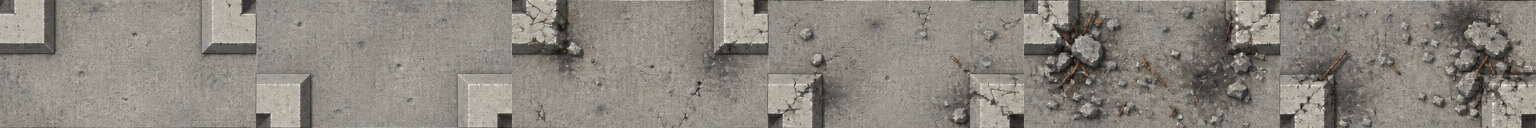
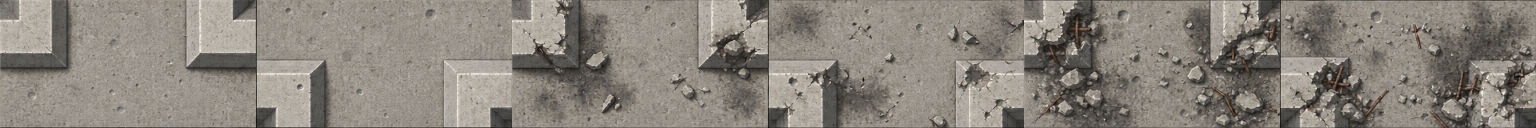
Emplacement collar: continuous ring for multi-cell bodies, aligned edge and inner-corner art

diff --git a/src/test/java/com/dillon/starsectormarines/battle/world/EmplacementDamageTest.java b/src/test/java/com/dillon/starsectormarines/battle/world/EmplacementDamageTest.java
@@ -81,6 +81,25 @@ class EmplacementDamageTest {
             assertEquals("doodad.fort-emplacement-inner-nw", TileManifest.emplacementTightParapet(0, 0, 1, -1).definitionId());
             assertNull(TileManifest.emplacementTightParapet(0, 0, 0, 0));
             assertNotNull(TileManifest.emplacementTightParapet(0, 0, 1, 0));
+            // A three-by-three body (half-extent 1): the 5x5 ring is three edge pieces per side and four corners.
+            String[][] ring = new String[5][5];
+            for (int dx = -2; dx <= 2; dx++) {
+                for (int dy = -2; dy <= 2; dy++) {
+                    if (Math.max(Math.abs(dx), Math.abs(dy)) != 2) continue;
+                    ring[dx + 2][dy + 2] = TileManifest.emplacementTightParapet(0, 0, dx, dy, 1).definitionId()
+                            .substring(TileManifest.EMPLACEMENT_PIECE_PREFIX.length());
+                }
+            }
+            for (int along = -1; along <= 1; along++) {
+                assertEquals("s", ring[along + 2][4], "north side");
+                assertEquals("n", ring[along + 2][0], "south side");
+                assertEquals("e", ring[0][along + 2], "west side");
+                assertEquals("w", ring[4][along + 2], "east side");
+            }
+            assertEquals("inner-se", ring[0][4]);
+            assertEquals("inner-sw", ring[4][4]);
+            assertEquals("inner-ne", ring[0][0]);
+            assertEquals("inner-nw", ring[4][0]);
         } finally {
             TileRegistry.install(previous);
         }

diff --git a/art-source/tilesets/make-fort-emplacement-doc.py b/art-source/tilesets/make-fort-emplacement-doc.py
@@ -20,11 +20,14 @@ for slot, (c, r) in slots.items():
     entries.append({'id': 'fort.emplacement.' + slot, 'block': 'fort.emplacement', 'slot': slot, 'included': True,
                     'cover': 'none', 'footprintCells': [1, 1], 'rect': [22 + c * 181, 11 + r * 181, 181, 181]})
 # The same four edge cuts again as doodads (CoverPropDamage family ids), which is what the stamper places.
+# Cut windows slid along the band (away from the model's drawn slab-joint lines at raw x=195/394, y=213/425) and
+# trimmed across the e/w pieces so no joint falls inside; the band's depth stays about half the cell on every side.
+EDGE_RECTS = {'n': (205, 11, 181, 181), 's': (205, 373, 181, 181),
+              'w': (22, 224, 169, 181), 'e': (397, 224, 168, 181)}
 for slot in ('n', 'e', 's', 'w'):
-    c, r = slots[slot]
     entries.append({'id': 'doodad.fort-emplacement-' + slot, 'included': True, 'cover': 'heavy',
                     'ballisticHalfHeight': 0.5, 'footprintCells': [1, 1],
-                    'rect': [22 + c * 181, 11 + r * 181, 181, 181], 'note': 'Parapet edge piece, exterior ' + slot + '.'})
+                    'rect': list(EDGE_RECTS[slot]), 'note': 'Parapet edge piece, exterior ' + slot + '.'})
 for i, (x, note) in enumerate(((770, 'Plain slab with hairline cracks.'),
                                (985, 'Four tie-down plates and a central drain.'),
                                (1200, 'Worn square bearing recess.'))):

diff --git a/art-source/templates/fort-emplacement-corners-guide.py b/art-source/templates/fort-emplacement-corners-guide.py
@@ -3,7 +3,7 @@
 Canvas 1536x1024, 192px frames, a contiguous 4x3 block at the top-left (x 0-767, y 0-575): columns are the corner of the
 cell the parapet notch sits in (nw, ne, sw, se), rows are intact, damaged, destroyed. A tight collar hugs its turret
 body, so at a diagonal ring cell the edge pieces on either side meet at the body's corner; this piece is that meeting:
-a small square of parapet in the one cell corner nearest the body (11% outer batter, 24% top face, 8% inner batter,
+a small square of parapet in the one cell corner nearest the body (14% outer batter, 29% top face, 11% inner batter, 54% in all, matching the measured depth of the cut edge pieces,
 as in fort-emplacement-guide.py, mitred on the diagonal), everything else flat platform concrete. The notch's two
 open sides run on into the neighbouring edge pieces' parapets at the same profile and tone. Light is from the
 north-west. Damaged marks chips and cracks on the notch and a little scorch on the platform; destroyed breaks the notch
@@ -15,9 +15,9 @@ from PIL import Image, ImageDraw
 
 ROOT = Path(__file__).resolve().parents[2]
 S = 192
-OUTER = round(S * 0.11)
-TOP = round(S * 0.24)
-INNER = round(S * 0.08)
+OUTER = round(S * 0.14)
+TOP = round(S * 0.29)
+INNER = round(S * 0.11)
 DEPTH = OUTER + TOP + INNER
 PLATFORM = (150, 150, 146, 255)
 TOPFACE = (186, 186, 180, 255)

diff --git a/src/main/java/com/dillon/starsectormarines/battle/world/model/TileManifest.java b/src/main/java/com/dillon/starsectormarines/battle/world/model/TileManifest.java
@@ -185,6 +185,18 @@ public final class TileManifest {
      * damaged -> destroyed by their own hits like any other cover prop.
      */
     public static Doodad emplacementTightParapet(int cellX, int cellY, int relX, int relY) {
+        return emplacementTightParapet(cellX, cellY, relX, relY, 0);
+    }
+
+    /**
+     * As {@link #emplacementTightParapet(int, int, int, int)} for a body {@code bodyHalf} cells either side of its
+     * centre (0 for one cell, 1 for three by three), with {@code (relX, relY)} the ring cell's offset from the body's
+     * centre. An axis on which the cell lies within the body's span is not an exposure: every ring cell along a body
+     * edge wears that edge's piece, and only the four cells diagonal to the body's corners wear inner corners.
+     */
+    public static Doodad emplacementTightParapet(int cellX, int cellY, int relX, int relY, int bodyHalf) {
+        relX = Math.abs(relX) > bodyHalf ? Integer.signum(relX) : 0;
+        relY = Math.abs(relY) > bodyHalf ? Integer.signum(relY) : 0;
         TileRegistry registry = TileRegistry.installed();
         if (registry == null) return null;
         String shape;

diff --git a/src/main/java/com/dillon/starsectormarines/battle/world/gen/bsp/FortStage.java b/src/main/java/com/dillon/starsectormarines/battle/world/gen/bsp/FortStage.java
@@ -1096,7 +1096,7 @@ public final class FortStage implements GenStage {
                 if (Math.max(Math.abs(dx), Math.abs(dy)) == reach) {
                     // The pad's rim is the concrete collar hugging the body: edges and inner corners, wearable cover
                     // like any other prop. The ground under it is the paving's.
-                    Doodad parapet = TileManifest.emplacementTightParapet(x, y, Integer.signum(dx), Integer.signum(dy));
+                    Doodad parapet = TileManifest.emplacementTightParapet(x, y, dx, dy, reach - 1);
                     if (parapet != null) ctx.doodads.add(parapet);
                 }
             }
